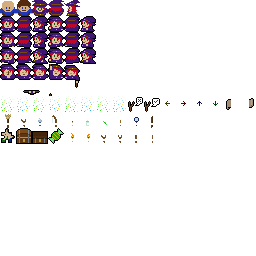
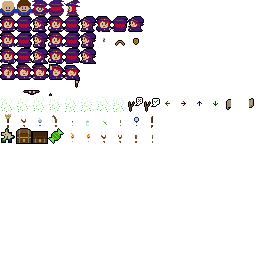
sound effects and hookshot start (not functional yet)

Changed region(s): [[0.375, 0.0625, 0.5625, 0.125], [0.4375, 0.1562, 0.5625, 0.1875]]

diff --git a/src/game/hero/hero_item.c b/src/game/hero/hero_item.c
@@ -32,13 +32,91 @@ int hero_roots_present(const struct sprite *sprite) {
 /* Hookshot.
  */
  
+#define HOOKSTAGE_LEAVE 1
+#define HOOKSTAGE_RETURN 2
+#define HOOKSTAGE_PULL 3
+
+#define HOOKSHOT_TICK_INTERVAL 0.100 /* s; space between sounds for all stages. */
+#define HOOKSHOT_LEAVE_SPEED   12.0 /* m/s */
+#define HOOKSHOT_RETURN_SPEED  12.0 /* m/s */
+#define HOOKSHOT_PULL_SPEED    12.0 /* m/s */
+#define HOOKSHOT_DISTANCE_MAX 8.0 /* m */
+
+static void hookshot_end(struct sprite *sprite) {
+  SPRITE->itemid_in_progress=0;
+}
+
+static void hookshot_abort(struct sprite *sprite) {
+  if (SPRITE->hookstage==HOOKSTAGE_RETURN) {
+    // Let it return on its own.
+  } else if (SPRITE->hookstage==HOOKSTAGE_PULL) {
+    // Pulling, abort immediately on release.
+    hookshot_end(sprite);
+  } else { // Presumably LEAVE, start the return stage.
+    SPRITE->hookstage=HOOKSTAGE_RETURN;
+  }
+}
+
+// Call during LEAVE stage. If we catch something, do whatever needs done.
+static void hookshot_check_grab(struct sprite *sprite) {
+  double x=sprite->x,y=sprite->y;
+  if (SPRITE->facedx<0) {
+    x-=SPRITE->hookdistance;
+    y+=0.25;
+  } else if (SPRITE->facedx>0) {
+    x+=SPRITE->hookdistance;
+    y+=0.25;
+  } else if (SPRITE->facedy<0) {
+    x+=0.25;
+    y-=SPRITE->hookdistance;
+  } else {
+    x-=0.25;
+    y+=SPRITE->hookdistance;
+  }
+  fprintf(stderr,"TODO %s %f,%f\n",__func__,x,y);//TODO
+}
+ 
 static void _hookshot_update(struct sprite *sprite,double elapsed) {
-  //TODO
+
+  // Releasing SOUTH forces "abort" but that does not necessarily end the activity.
+  if (!(g.input[0]&EGG_BTN_SOUTH)) {
+    hookshot_abort(sprite);
+    if (!SPRITE->itemid_in_progress) return;
+  }
+  
+  SPRITE->hookclock+=elapsed;
+  if (SPRITE->hookclock>=HOOKSHOT_TICK_INTERVAL) {
+    SPRITE->hookclock-=HOOKSHOT_TICK_INTERVAL;
+    bm_sound((SPRITE->hookstage==HOOKSTAGE_LEAVE)?RID_sound_hookshot_tick:RID_sound_hookshot_untick,0.0);
+  }
+  switch (SPRITE->hookstage) {
+    case HOOKSTAGE_LEAVE: {
+        if ((SPRITE->hookdistance+=elapsed*HOOKSHOT_LEAVE_SPEED)>HOOKSHOT_DISTANCE_MAX) {
+          hookshot_abort(sprite);
+        } else {
+          hookshot_check_grab(sprite);
+        }
+      } break;
+    case HOOKSTAGE_RETURN: {
+        if ((SPRITE->hookdistance-=elapsed*HOOKSHOT_RETURN_SPEED)<=0.0) {
+          hookshot_end(sprite);
+        }
+      } break;
+    case HOOKSTAGE_PULL: {
+        fprintf(stderr,"%s:%d:TODO: HOOKSTAGE_PULL\n",__FILE__,__LINE__);
+        hookshot_end(sprite);
+      } break;
+  }
 }
 
 static int _hookshot_begin(struct sprite *sprite) {
-  fprintf(stderr,"%s\n",__func__);
-  return 0;//TODO
+  hero_end_walk(sprite);
+  SPRITE->itemid_in_progress=NS_itemid_hookshot;
+  SPRITE->hookclock=0.0;
+  SPRITE->hookdistance=0.0;
+  SPRITE->hookstage=HOOKSTAGE_LEAVE;
+  bm_sound(RID_sound_hookshot_begin,0.0);
+  return 1;
 }
 
 /* Fishpole.

diff --git a/src/game/hero/sprite_hero.c b/src/game/hero/sprite_hero.c
@@ -110,6 +110,54 @@ static void _hero_render(struct sprite *sprite,int dstx,int dsty) {
     return;
   }
   
+  /* Likewise hookshot.
+   */
+  if (SPRITE->itemid_in_progress==NS_itemid_hookshot) {
+    uint8_t hookxform; // Natural orientation of hook and chain is down.
+    int hookx=dstx+SPRITE->facedx*(int)(SPRITE->hookdistance*NS_sys_tilesize);
+    int hooky=dsty+SPRITE->facedy*(int)(SPRITE->hookdistance*NS_sys_tilesize);
+    tileid+=6;
+    if (SPRITE->facedx<0) {
+      tileid+=0x02;
+      hookxform=EGG_XFORM_SWAP|EGG_XFORM_YREV;
+      hooky+=4;
+    } else if (SPRITE->facedx>0) {
+      tileid+=0x02;
+      xform=EGG_XFORM_XREV;
+      hookxform=EGG_XFORM_SWAP;
+      hooky+=4;
+    } else if (SPRITE->facedy<0) {
+      tileid+=0x01;
+      hookxform=EGG_XFORM_YREV;
+      hookx+=3;
+    } else {
+      hookxform=0;
+      hookx-=3;
+    }
+    // Chain begins right at the hook, and continues until we reach the hero.
+    const int chainspacing=7;
+    int chainx=hookx,chainy=hooky;
+    for (;;) {
+      graf_tile(&g.graf,chainx,chainy,0x26,hookxform);
+      if (SPRITE->facedx<0) {
+        if ((chainx+=chainspacing)>=dstx) break;
+      } else if (SPRITE->facedx>0) {
+        if ((chainx-=chainspacing)<=dstx) break;
+      } else if (SPRITE->facedy<0) {
+        if ((chainy+=chainspacing)>=dsty) break;
+      } else {
+        if ((chainy-=chainspacing)<=dsty) break;
+      }
+    }
+    // And then the two foreground tiles, and any decoration on top.
+    graf_tile(&g.graf,dstx,dsty,tileid,xform);
+    graf_tile(&g.graf,hookx,hooky,0x27,hookxform);
+    hero_render_bugspray_maybe(sprite,dstx,dsty);
+    return;
+  }
+  
+  /* Most situations...
+   */
   if (SPRITE->facedx<0) tileid+=0x02;
   else if (SPRITE->facedx>0) { tileid+=0x02; xform=EGG_XFORM_XREV; }
   else if (SPRITE->facedy<0) tileid+=0x01;

diff --git a/src/game/hero/hero_motion.c b/src/game/hero/hero_motion.c
@@ -7,6 +7,7 @@
 static int hero_can_change_direction(struct sprite *sprite) {
   switch (SPRITE->itemid_in_progress) {
     case NS_itemid_wand:
+    case NS_itemid_hookshot:
       return 0;
   }
   return 1;
@@ -28,6 +29,7 @@ static int hero_begin_walk(struct sprite *sprite) {
 
   switch (SPRITE->itemid_in_progress) {
     case NS_itemid_wand:
+    case NS_itemid_hookshot:
       return 0;
   }
 
@@ -117,6 +119,12 @@ void hero_update_motion(struct sprite *sprite,double elapsed) {
       SPRITE->facedy=0;
     } else if (!indx&&indy&&SPRITE->facedx) {
       SPRITE->facedx=0;
+      SPRITE->facedy=indy;
+    // Or if we're facing the wrong way, oops, get it straight.
+    // This can happen if you try to start walking while an inhibitive item is in play, eg hookshot.
+    } else if (indx&&(indx==-SPRITE->facedx)) {
+      SPRITE->facedx=indx;
+    } else if (indy&&(indy==-SPRITE->facedy)) {
       SPRITE->facedy=indy;
     }
   }

diff --git a/src/game/hero/hero_internal.h b/src/game/hero/hero_internal.h
@@ -21,6 +21,9 @@ struct sprite_hero {
   uint8_t wanddir;
   uint8_t spell[SPELL_LIMIT]; // (0x40,0x10,0x08,0x02)
   int spellc;
+  double hookclock; // For the tick sound only.
+  double hookdistance;
+  int hookstage;
 };
 
 #define SPRITE ((struct sprite_hero*)sprite)

diff --git a/src/game/main.c b/src/game/main.c
@@ -90,7 +90,7 @@ void egg_client_render() {
 void bm_song(int rid,int repeat) {
   if (rid==g.song_playing) return;
   g.song_playing=rid;
-  egg_play_song(1,rid,repeat,0.5f,0.0f);
+  egg_play_song(1,rid,repeat,0.3f,0.0f);
 }
 
 void bm_sound(int rid,float pan) {

diff --git a/README.md b/README.md
@@ -29,7 +29,9 @@ Requires [Egg](https://github.com/aksommerville/egg2) to build.
 - [x] How to define root paths for the Divining Rod? See `hero_item.c:hero_roots_present` ...`CMD_map_root`
 - [ ] Chopping: Prepopulate conveyor belt.
 - [ ] After collecting treasure, poke hero (qx,qy) in case the divining rod changed.
+- [ ] Also poke initially. As is, if you start on a POI and don't touch the dpad, nothing triggers.
 - [ ] Can we not trigger the divining rod's visual feedback during conversation? (eg talk to the carpenter with DR armed).
+- [ ] Dialogue needs to be more in-your-face. Maybe partial blackout of the background, or move the box near the hero.
 - [ ] Diegetic witch toys.
 - - [ ] Broom. Free rotation, like Thirty Seconds Apothecary.
 - - [ ] Hookshot.
@@ -57,6 +59,7 @@ Requires [Egg](https://github.com/aksommerville/egg2) to build.
 - - [ ] Every monster sprite has a battle declared.
 - - [ ] rsprite monsters in every map that ought to.
 - - [ ] root paths
+- - [ ] Convenient tool for checking audio levels. Not BM-specific, so do it in Egg Editor.
 - Beta test logging.
 - - [ ] Client-side log service. Write tersely, and store to a new storage key every session.
 - - [ ] Some cudgel in the web runtime to pull those logs when the session ends, send them to me, and then drop from localStorage.
